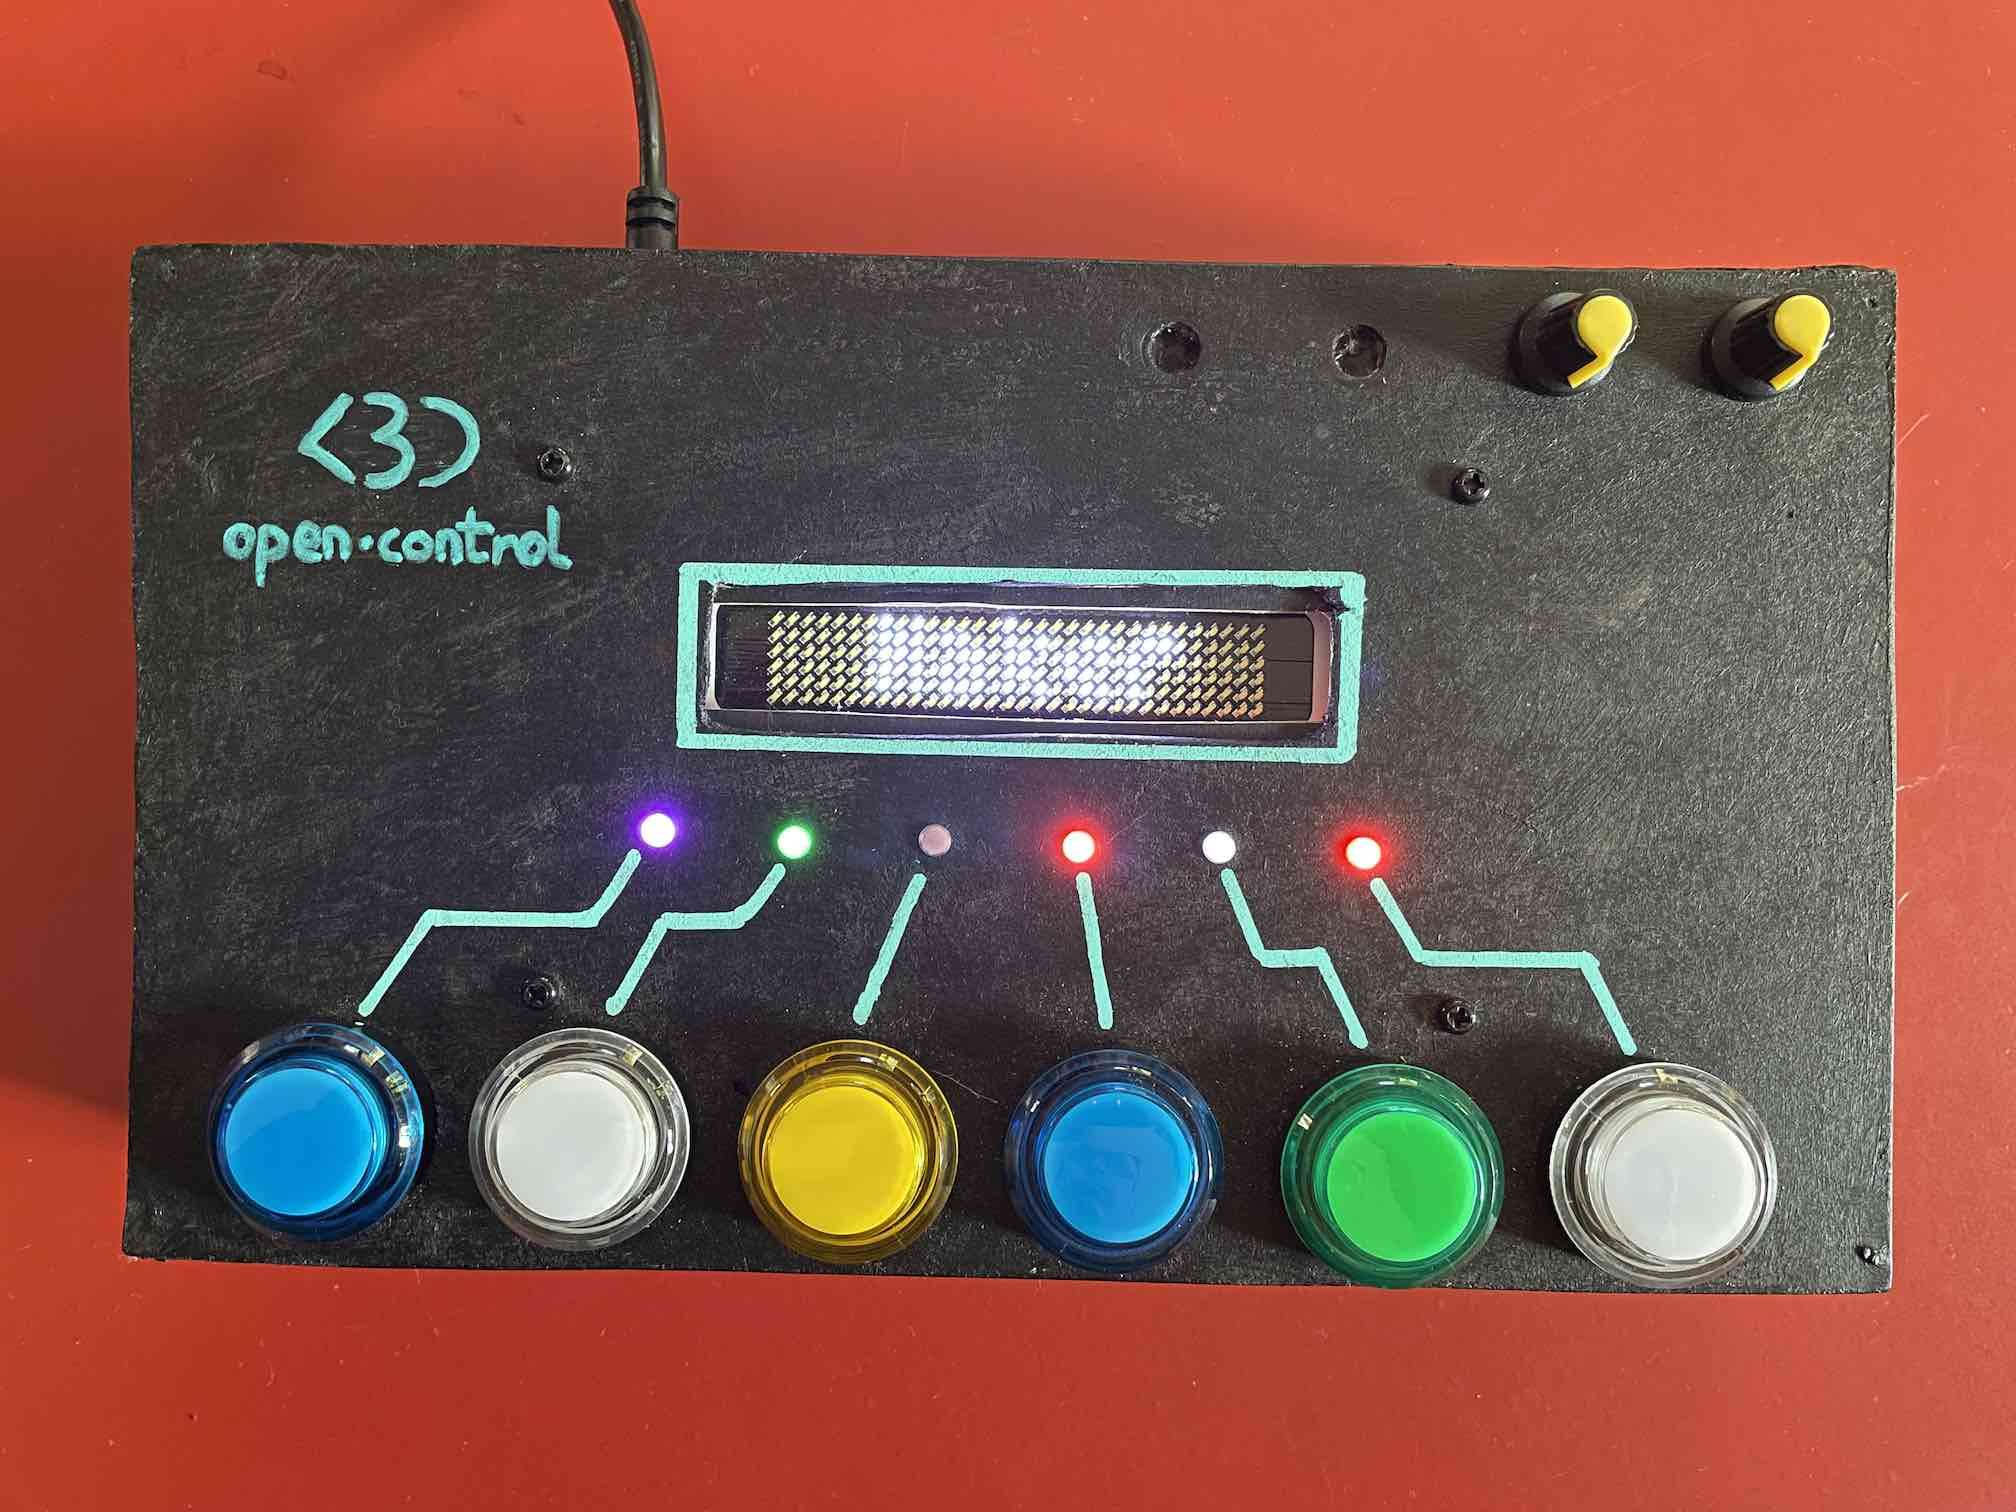
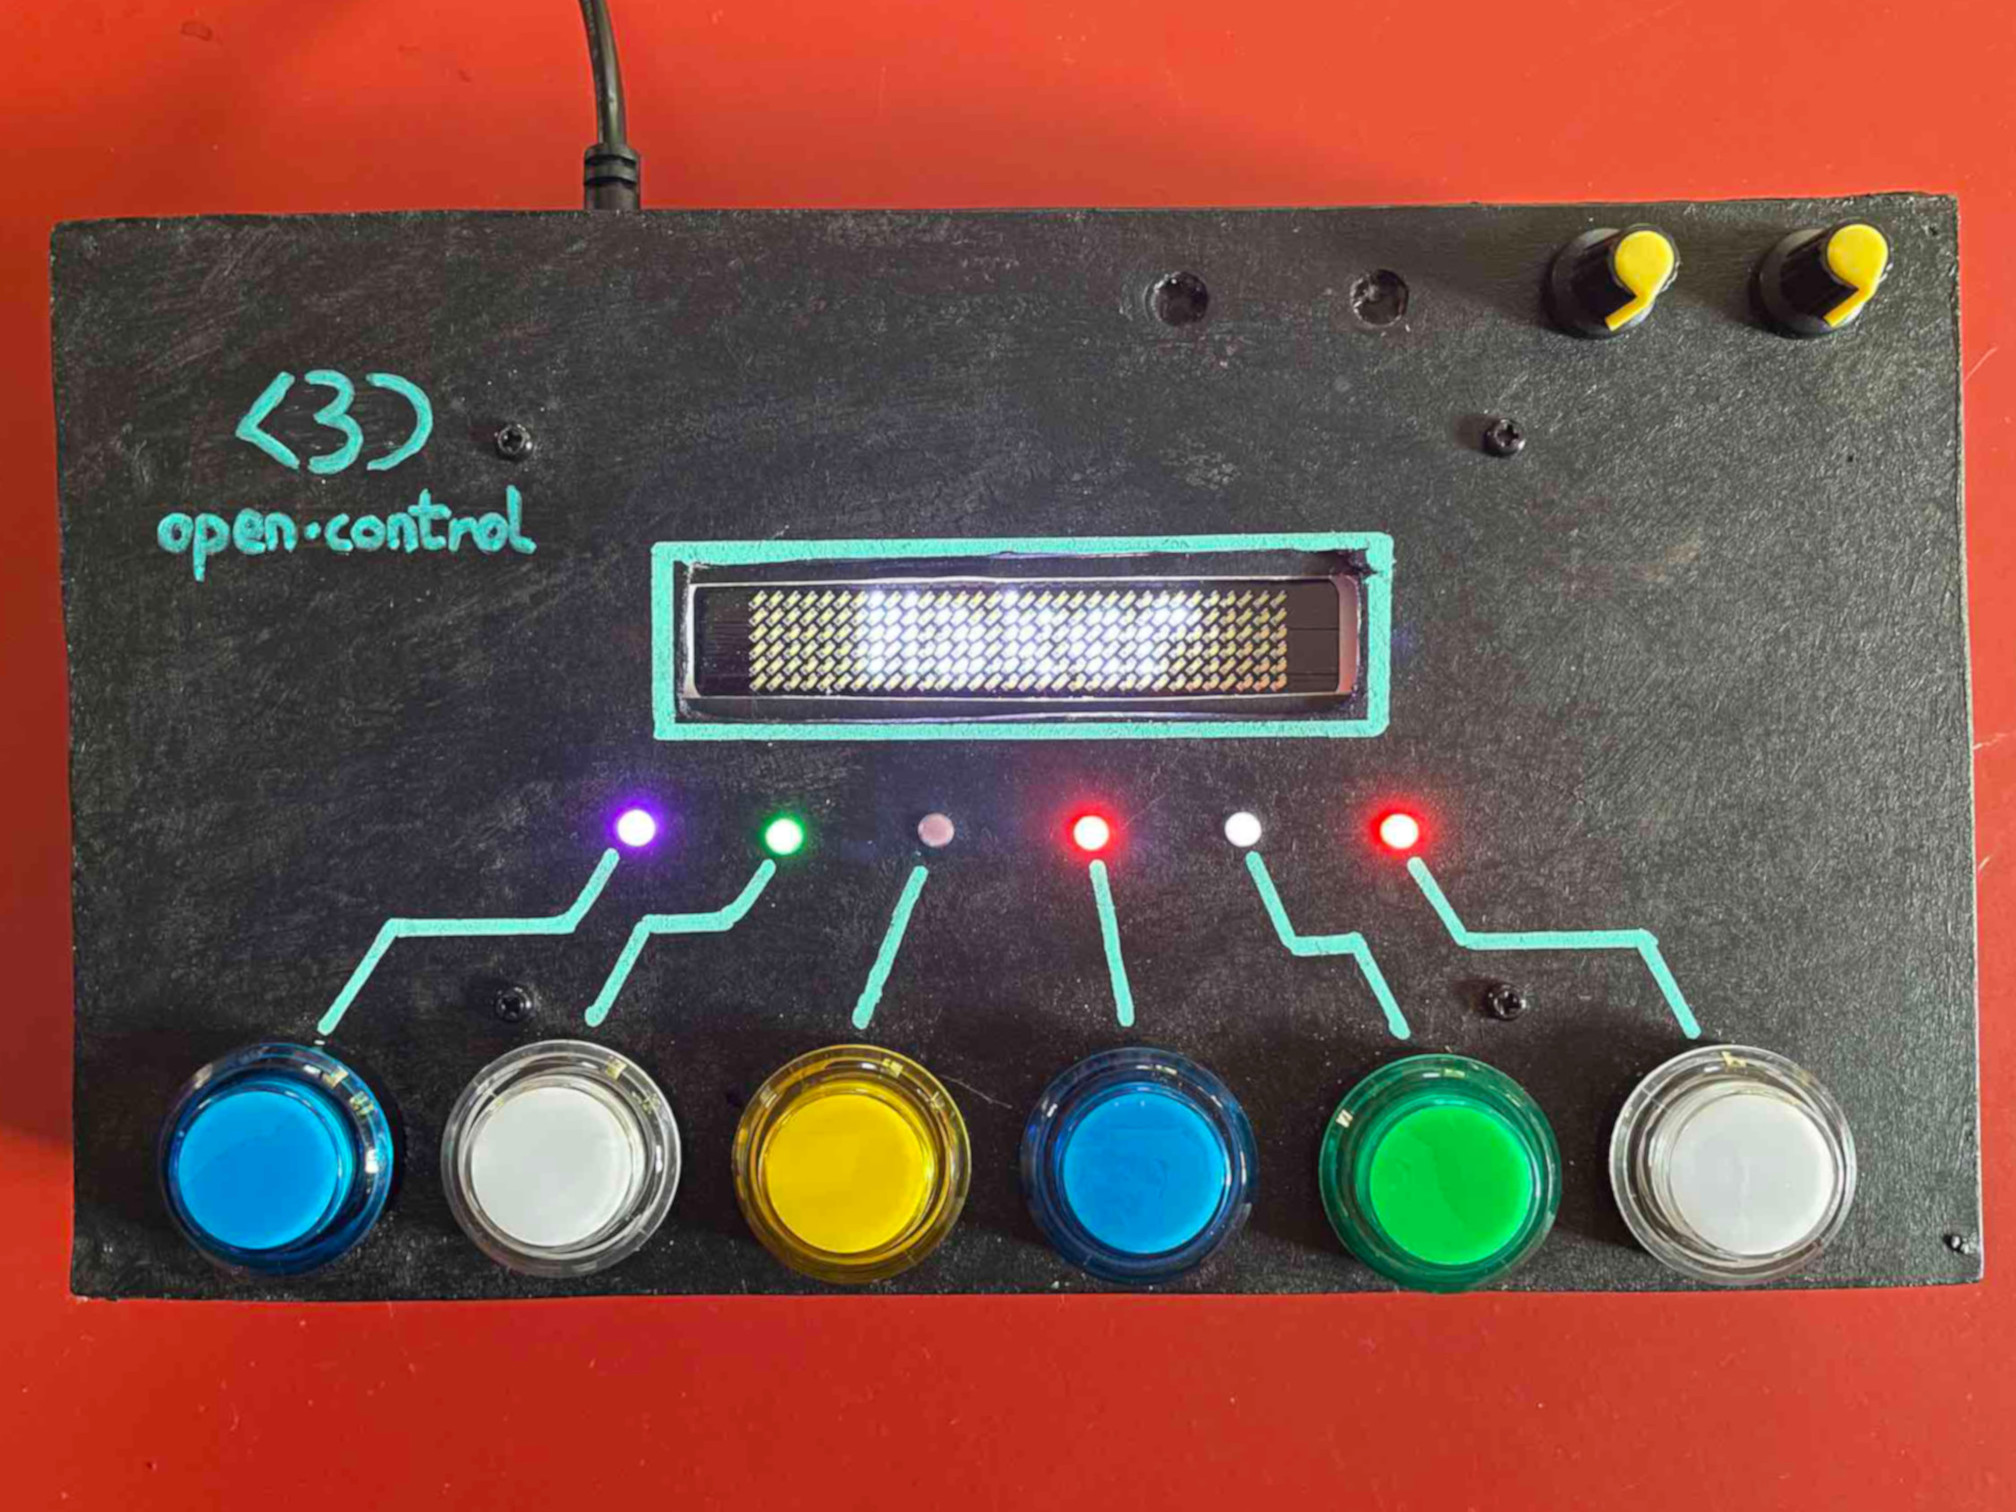
added versions

diff --git a/index.html b/index.html
@@ -6,6 +6,7 @@ permalink: /
 feature_row:
 - image_path: /assets/images/red_pocket_2.jpg
   title: "Pocket"
+  image_url: "./versions/"
   excerpt: "<p align=center><b>Desktop version</b></p>
   <p align=center>6 Buttons <br> 2 Knobs<br>
     MIDI In/Out<br>
@@ -17,6 +18,7 @@ feature_row:
 
 - image_path: /assets/images/red_boxed.jpg
   title: "Boxed"
+  image_url: "./versions/#boxed"
   excerpt: "<p align=center><b>Use pedals instead of buttons</b></p>
   <p align=center>6 Jack inputs for Switch Pedals<br>
     2 Jack Inputs for Expression Pedals<br>
@@ -29,6 +31,7 @@ feature_row:
 
 - image_path: /assets/images/red_maker.jpg
   title: "Maker"
+  image_url: "./versions/#maker"
   excerpt: "<p align=center><b>Create your own enclosure</b></p>
   <p align=center>6 Soldering Slots for Switches<br>
     2 Soldering Slots for variable Resistors<br>
@@ -83,7 +86,7 @@ gallery:
         <br>
       </p>
         <div >
-            <img src="./assets/images/red_hello.jpg" class="my_header"/>
+            <img src="./assets/images/pocket_angle.jpg" class="my_header"/>
     
         </div>
         <br>

diff --git a/_pages/versions.md b/_pages/versions.md
@@ -1,0 +1,72 @@
+---
+layout: single
+permalink: /versions/
+
+toc: true
+toc_label: "3 Versions"
+toc_icon: "cog"
+
+gallery_pocket:
+- url: /assets/images/pocket_angle.jpg
+  image_path: /assets/images/pocket_angle.jpg
+- url: /assets/images/pocket_back.jpg
+  image_path: /assets/images/pocket_back.jpg
+- url: /assets/images/pocket_close.jpg
+  image_path: /assets/images/pocket_close.jpg
+  
+gallery_boxed:
+- url: /assets/images/red_boxed.jpg
+  image_path: /assets/images/red_boxed.jpg
+- url: /assets/images/boxed_front.jpg
+  image_path: /assets/images/boxed_front.jpg
+- url: /assets/images/boxed_back.jpg
+  image_path: /assets/images/boxed_back.jpg
+- url: /assets/images/boxed_full.jpg
+  image_path: /assets/images/boxed_full.jpg
+
+gallery_maker:
+- url: /assets/images/red_maker.jpg
+  image_path: /assets/images/red_maker.jpg
+- url: /assets/images/split.jpg
+  image_path: /assets/images/split.jpg
+- url: /assets/images/maker_components.jpg
+  image_path: /assets/images/maker_components.jpg
+  
+---
+<!-- # <span class="bis"> Videos</span> -->
+## Pocket
+
+- Bright LED Matrix display
+- 6 Buttons
+- 6 RGB LEDs for visual feedback
+- 2 Knobs
+- MIDI In and Out
+- USB
+- Optional cover
+
+{% include gallery id="gallery_pocket" layout="full" %}
+<a id="boxed"></a>
+<br>
+##  Boxed
+
+- Bright LED Matrix display
+- 6 Mono Jack input for Switch pedals (sustain type)
+- 6 RGB LEDs for visual feedback
+- 2 Stereo Jack for Expression pedals
+- MIDI In and Out
+- USB
+- Robust plastic enclosure
+
+{% include gallery id="gallery_boxed" layout="full" %}
+<a id="maker"></a>
+<br>
+## Maker
+
+- Bright LED Matrix display
+- 6 Soldering Slots for Buttons/Switches (Mono jacks provided)
+- 6 RGB LEDs for visual feedback
+- 2 Soldering Slots for Potentiometers (Stereo Jacks provided)
+- MIDI In and Out (Mini jacks provided)
+- USB (Socket provided)
+
+{% include gallery id="gallery_maker" layout="full" %}
